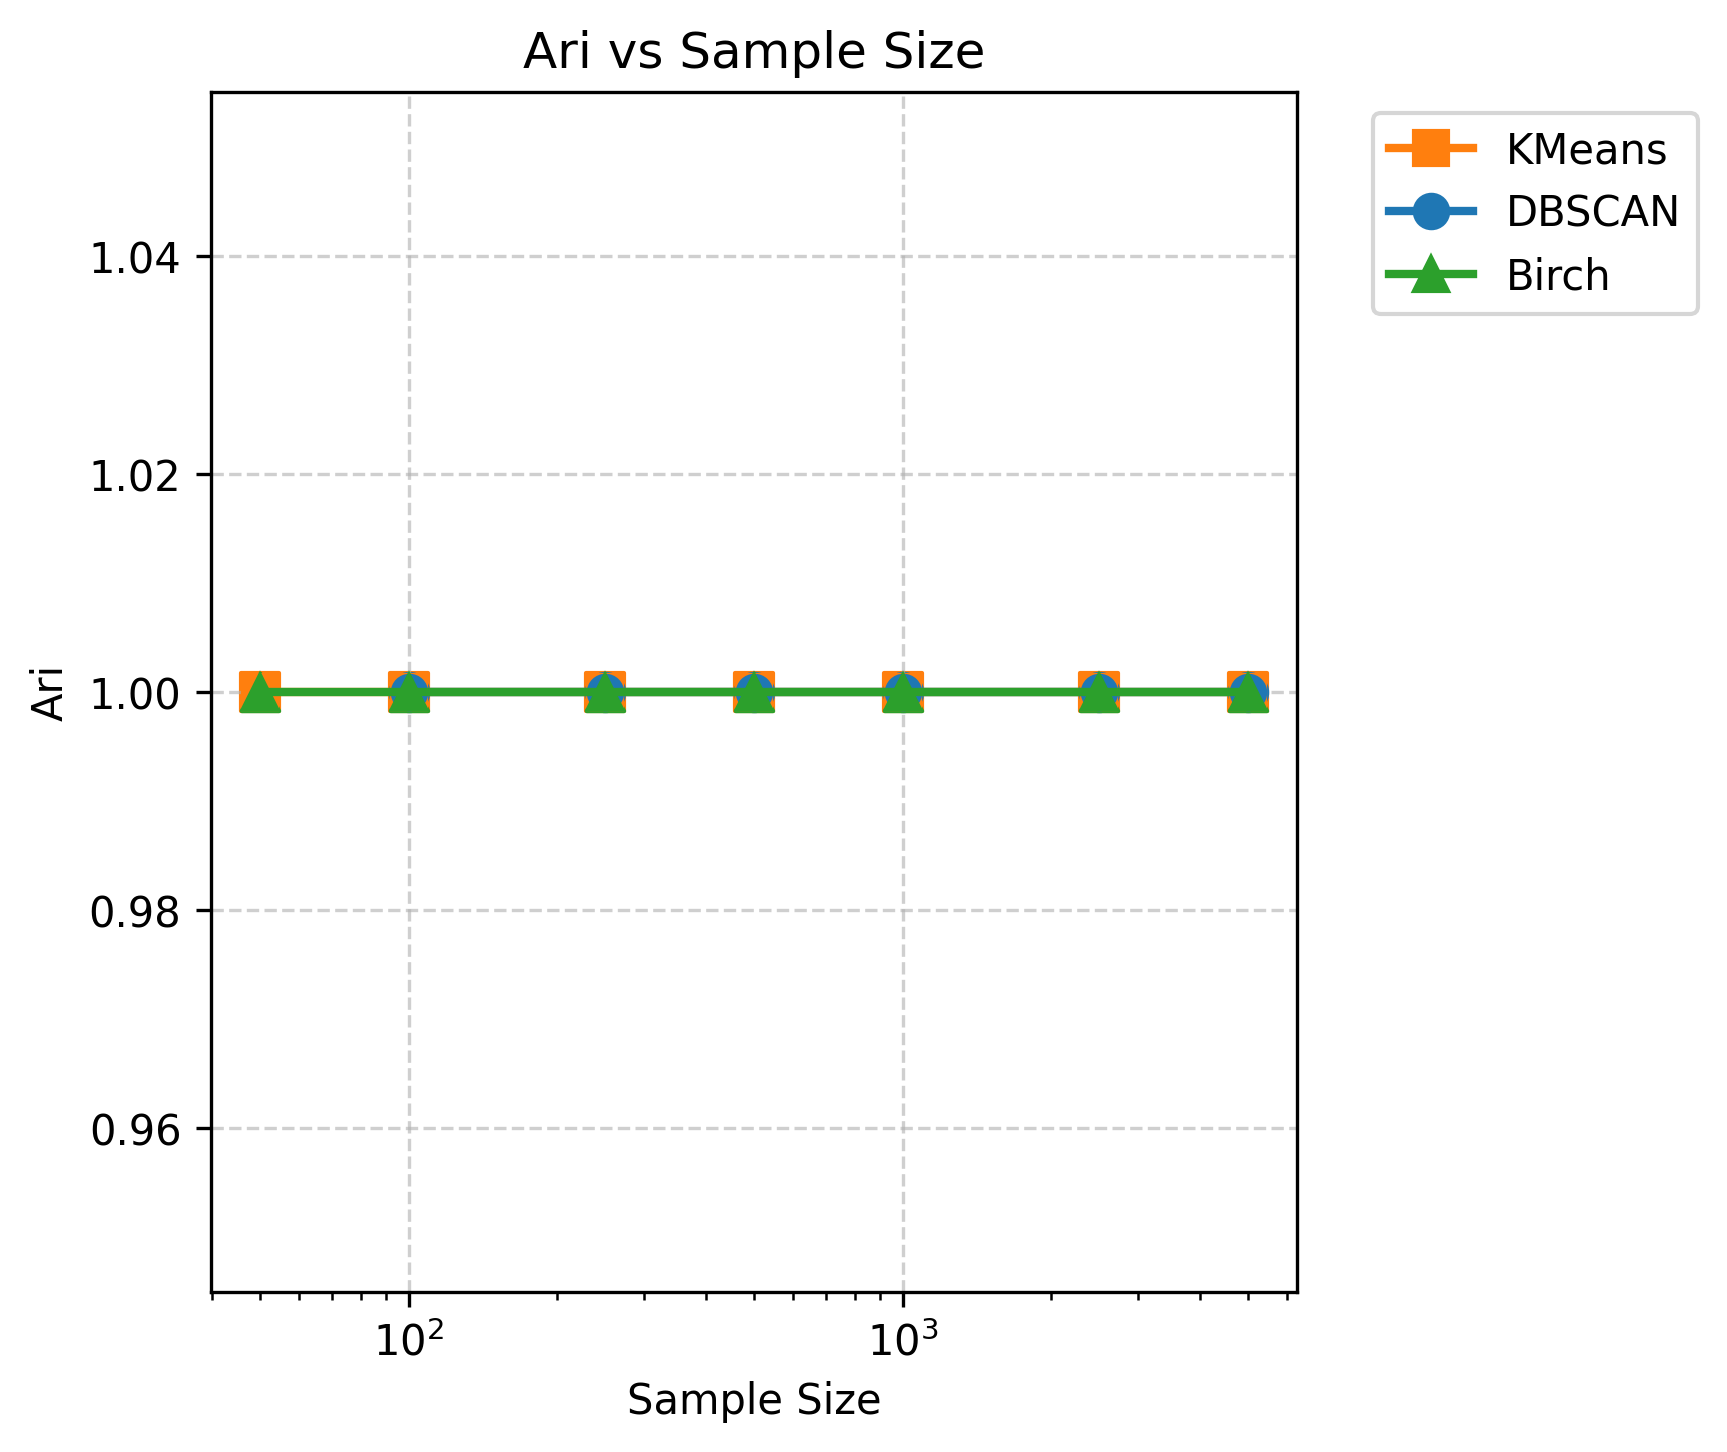
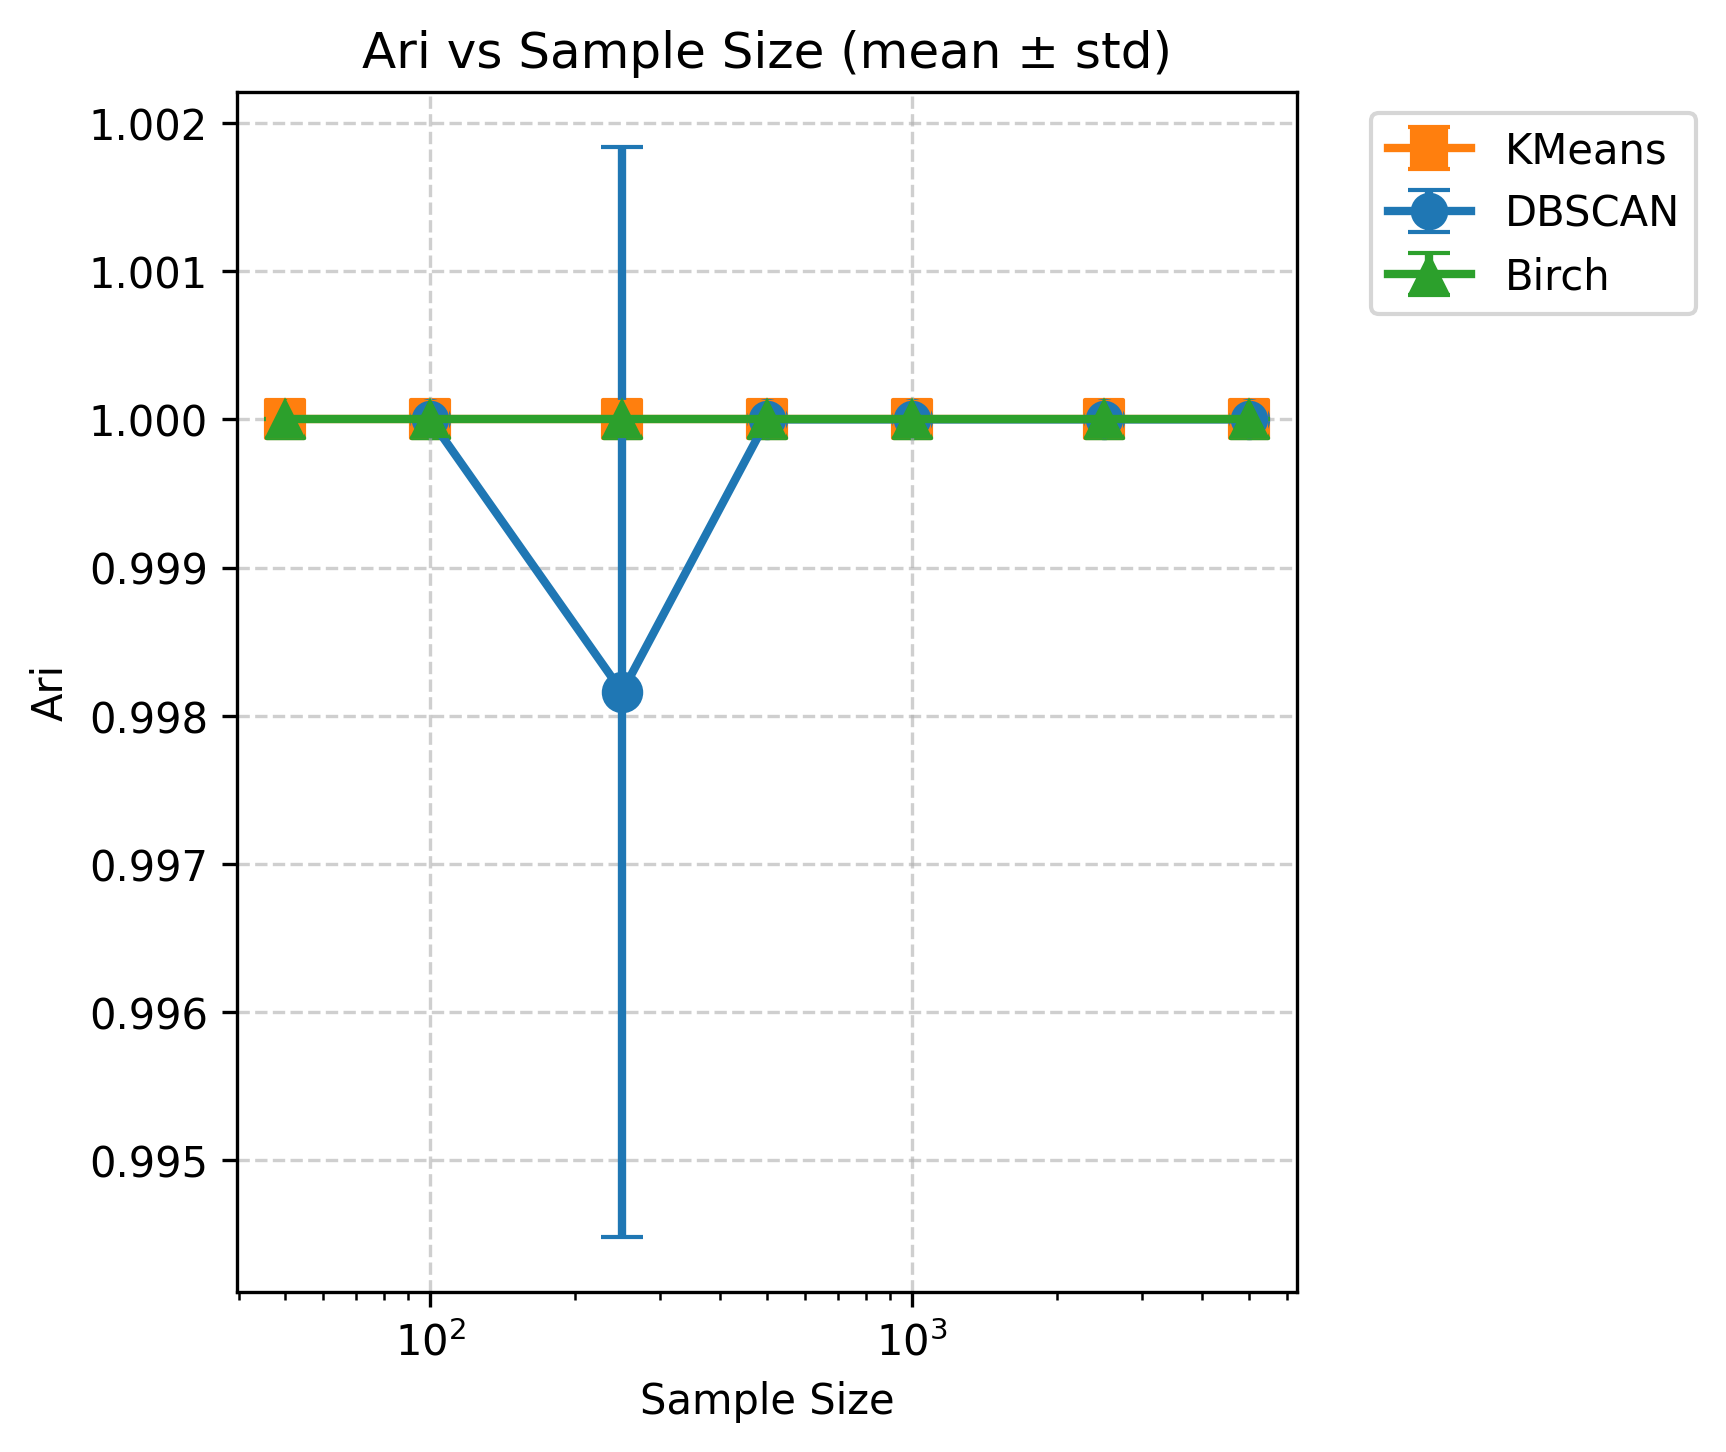
Part 2 done

diff --git a/part_two_B.py b/part_two_B.py
@@ -11,52 +11,63 @@ n_features = 10
 n_samples = 3000
 imbalance_ratios = [1, 2, 3, 4, 5, 6, 7, 8, 9]  # Ratio of largest to smallest cluster
 
-# --- Storage for results ---
-results = {alg: {'ari': [], 'silhouette': [], 'n_clusters': []} for alg in ['KMeans', 'DBSCAN', 'Birch']}
+n_runs = 5  # Number of runs for error estimation
 
-for ratio in imbalance_ratios:
-    # --- Generate imbalanced cluster sizes ---
-    # Smallest cluster size
-    min_size = n_samples // (sum(ratio**i for i in range(n_clusters)))
-    sizes = [min_size * (ratio**i) for i in range(n_clusters)]
-    sizes[-1] += n_samples - sum(sizes)  # Adjust last cluster to match total
+# --- Storage for results (lists of lists for each ratio) ---
+results = {
+    alg: {
+        'ari': [[] for _ in imbalance_ratios],
+        'silhouette': [[] for _ in imbalance_ratios],
+        'n_clusters': [[] for _ in imbalance_ratios]
+    }
+    for alg in ['KMeans', 'DBSCAN', 'Birch']
+}
 
-    centers = np.random.uniform(-20, 20, size=(n_clusters, n_features))
-    X, y_true = make_blobs(
-        n_samples=sizes,
-        centers=centers,
-        n_features=n_features,
-        cluster_std=1.0,
-        random_state=42
-    )
+for run in range(n_runs):
+    for i, ratio in enumerate(imbalance_ratios):
+        # --- Generate imbalanced cluster sizes ---
+        min_size = n_samples // (sum(ratio**j for j in range(n_clusters)))
+        sizes = [min_size * (ratio**j) for j in range(n_clusters)]
+        sizes[-1] += n_samples - sum(sizes)  # Adjust last cluster to match total
 
-    # --- KMeans ---
-    kmeans = KMeans(n_clusters=n_clusters, random_state=42)
-    y_kmeans = kmeans.fit_predict(X)
-    results['KMeans']['ari'].append(adjusted_rand_score(y_true, y_kmeans))
-    results['KMeans']['silhouette'].append(silhouette_score(X, y_kmeans))
-    results['KMeans']['n_clusters'].append(len(np.unique(y_kmeans)))
+        centers = np.random.uniform(-20, 20, size=(n_clusters, n_features))
+        X, y_true = make_blobs(
+            n_samples=sizes,
+            centers=centers,
+            n_features=n_features,
+            cluster_std=1.0,
+            random_state=None  # Use different random state each run
+        )
 
-    # --- DBSCAN ---
-    dbscan = DBSCAN(eps=1.8, min_samples=5)  # You may need to tune eps
-    y_dbscan = dbscan.fit_predict(X)
-    mask = y_dbscan != -1
-    if np.unique(y_dbscan[mask]).size > 1:
-        sil = silhouette_score(X[mask], y_dbscan[mask])
-    else:
-        sil = np.nan
-    results['DBSCAN']['ari'].append(adjusted_rand_score(y_true[mask], y_dbscan[mask]) if mask.any() else np.nan)
-    results['DBSCAN']['silhouette'].append(sil)
-    results['DBSCAN']['n_clusters'].append(len(set(y_dbscan)) - (1 if -1 in y_dbscan else 0))
+        # --- KMeans ---
+        kmeans = KMeans(n_clusters=n_clusters, random_state=None)
+        y_kmeans = kmeans.fit_predict(X)
+        results['KMeans']['ari'][i].append(adjusted_rand_score(y_true, y_kmeans))
+        results['KMeans']['silhouette'][i].append(silhouette_score(X, y_kmeans))
+        results['KMeans']['n_clusters'][i].append(len(np.unique(y_kmeans)))
 
-    # --- Birch ---
-    birch = Birch(n_clusters=n_clusters)
-    y_birch = birch.fit_predict(X)
-    results['Birch']['ari'].append(adjusted_rand_score(y_true, y_birch))
-    results['Birch']['silhouette'].append(silhouette_score(X, y_birch))
-    results['Birch']['n_clusters'].append(len(np.unique(y_birch)))
+        # --- DBSCAN ---
+        dbscan = DBSCAN(eps=1.8, min_samples=5)
+        y_dbscan = dbscan.fit_predict(X)
+        mask = y_dbscan != -1
+        if np.unique(y_dbscan[mask]).size > 1:
+            sil = silhouette_score(X[mask], y_dbscan[mask])
+            ari = adjusted_rand_score(y_true[mask], y_dbscan[mask])
+        else:
+            sil = np.nan
+            ari = np.nan
+        results['DBSCAN']['ari'][i].append(ari)
+        results['DBSCAN']['silhouette'][i].append(sil)
+        results['DBSCAN']['n_clusters'][i].append(len(set(y_dbscan)) - (1 if -1 in y_dbscan else 0))
 
-# --- Plotting (separate high-quality images for each metric) ---
+        # --- Birch ---
+        birch = Birch(n_clusters=n_clusters)
+        y_birch = birch.fit_predict(X)
+        results['Birch']['ari'][i].append(adjusted_rand_score(y_true, y_birch))
+        results['Birch']['silhouette'][i].append(silhouette_score(X, y_birch))
+        results['Birch']['n_clusters'][i].append(len(np.unique(y_birch)))
+
+# --- Plotting (mean ± std error bars for each metric) ---
 colors = {'KMeans': 'tab:orange', 'DBSCAN': 'tab:blue', 'Birch': 'tab:green'}
 markers = {'KMeans': 's', 'DBSCAN': 'o', 'Birch': '^'}
 xlabels = [f"1:{r}" for r in imbalance_ratios]
@@ -67,15 +78,18 @@ os.makedirs("part_two", exist_ok=True)
 for metric in metrics:
     plt.figure(figsize=(7, 5))
     for alg in results:
-        y = np.array(results[alg][metric], dtype=np.float64)
-        plt.plot(
-            xlabels, y,
-            marker=markers[alg], color=colors[alg], label=alg, linewidth=2, markersize=8
+        vals = np.array(results[alg][metric], dtype=np.float64)  # shape: (len(imbalance_ratios), n_runs)
+        means = np.nanmean(vals, axis=1)
+        stds = np.nanstd(vals, axis=1)
+        plt.errorbar(
+            xlabels, means, yerr=stds,
+            marker=markers[alg], color=colors[alg], label=alg,
+            linewidth=2, markersize=8, capsize=5
         )
-        plt.scatter(xlabels, y, color=colors[alg], marker=markers[alg], s=80)
+        plt.scatter(xlabels, means, color=colors[alg], marker=markers[alg], s=80)
     plt.xlabel('Cluster Size Ratio (smallest:largest)')
     plt.ylabel(metric.replace('_', ' ').title())
-    plt.title(f"{metric.replace('_', ' ').title()} vs Cluster Size Imbalance")
+    plt.title(f"{metric.replace('_', ' ').title()} vs Cluster Size Imbalance (mean ± std)")
     plt.grid(True, linestyle='--', alpha=0.6)
     if metric == 'ari':
         plt.legend(bbox_to_anchor=(1.05, 1), loc='upper left', borderaxespad=0.)

diff --git a/part_two_A.py b/part_two_A.py
@@ -15,6 +15,7 @@ n_clusters = 10
 n_features = 50  # High dimensional like MNIST
 n_samples_full = 5000
 sample_sizes = [5000, 2500, 1000, 500, 250, 100, 50]
+n_runs = 5  # Number of runs for error estimation
 
 # --- Generate synthetic MNIST-like data ---
 X_full, y_true_full = make_blobs(
@@ -39,48 +40,56 @@ plt.tight_layout()
 plt.savefig("part_two/MNIST.png", bbox_inches="tight")
 plt.show()
 
-# --- Storage for clustering results ---
-results = {alg: {'ari': [], 'silhouette': [], 'n_clusters': []} for alg in ['KMeans', 'DBSCAN', 'Birch']}
+# --- Storage for clustering results (now stores lists of lists) ---
+results = {
+    alg: {
+        'ari': [[] for _ in sample_sizes],
+        'silhouette': [[] for _ in sample_sizes],
+        'n_clusters': [[] for _ in sample_sizes]
+    }
+    for alg in ['KMeans', 'DBSCAN', 'Birch']
+}
 
-# --- Loop over different sample sizes ---
-for size in sample_sizes:
-    # Balanced sampling: equal from each cluster
-    idx = []
-    for c in range(n_clusters):
-        c_idx = np.where(y_true_full == c)[0]
-        idx.extend(np.random.choice(c_idx, size // n_clusters, replace=False))
-    X = X_full[idx]
-    y_true = y_true_full[idx]
+# --- Loop over different sample sizes and runs ---
+for run in range(n_runs):
+    for i, size in enumerate(sample_sizes):
+        # Balanced sampling: equal from each cluster
+        idx = []
+        for c in range(n_clusters):
+            c_idx = np.where(y_true_full == c)[0]
+            idx.extend(np.random.choice(c_idx, size // n_clusters, replace=False))
+        X = X_full[idx]
+        y_true = y_true_full[idx]
 
-    # --- KMeans ---
-    kmeans = KMeans(n_clusters=n_clusters, random_state=42)
-    y_kmeans = kmeans.fit_predict(X)
-    results['KMeans']['ari'].append(adjusted_rand_score(y_true, y_kmeans))
-    results['KMeans']['silhouette'].append(silhouette_score(X, y_kmeans))
-    results['KMeans']['n_clusters'].append(len(np.unique(y_kmeans)))
+        # --- KMeans ---
+        kmeans = KMeans(n_clusters=n_clusters, random_state=None)
+        y_kmeans = kmeans.fit_predict(X)
+        results['KMeans']['ari'][i].append(adjusted_rand_score(y_true, y_kmeans))
+        results['KMeans']['silhouette'][i].append(silhouette_score(X, y_kmeans))
+        results['KMeans']['n_clusters'][i].append(len(np.unique(y_kmeans)))
 
-    # --- DBSCAN ---
-    dbscan = DBSCAN(eps=4.5, min_samples=5)  # eps may need tuning
-    y_dbscan = dbscan.fit_predict(X)
-    mask = y_dbscan != -1
-    if np.unique(y_dbscan[mask]).size > 1:
-        sil = silhouette_score(X[mask], y_dbscan[mask])
-        ari = adjusted_rand_score(y_true[mask], y_dbscan[mask])
-    else:
-        sil = np.nan
-        ari = np.nan
-    results['DBSCAN']['ari'].append(ari)
-    results['DBSCAN']['silhouette'].append(sil)
-    results['DBSCAN']['n_clusters'].append(len(set(y_dbscan)) - (1 if -1 in y_dbscan else 0))
+        # --- DBSCAN ---
+        dbscan = DBSCAN(eps=4.5, min_samples=5)
+        y_dbscan = dbscan.fit_predict(X)
+        mask = y_dbscan != -1
+        if np.unique(y_dbscan[mask]).size > 1:
+            sil = silhouette_score(X[mask], y_dbscan[mask])
+            ari = adjusted_rand_score(y_true[mask], y_dbscan[mask])
+        else:
+            sil = np.nan
+            ari = np.nan
+        results['DBSCAN']['ari'][i].append(ari)
+        results['DBSCAN']['silhouette'][i].append(sil)
+        results['DBSCAN']['n_clusters'][i].append(len(set(y_dbscan)) - (1 if -1 in y_dbscan else 0))
 
-    # --- Birch ---
-    birch = Birch(n_clusters=n_clusters)
-    y_birch = birch.fit_predict(X)
-    results['Birch']['ari'].append(adjusted_rand_score(y_true, y_birch))
-    results['Birch']['silhouette'].append(silhouette_score(X, y_birch))
-    results['Birch']['n_clusters'].append(len(np.unique(y_birch)))
+        # --- Birch ---
+        birch = Birch(n_clusters=n_clusters)
+        y_birch = birch.fit_predict(X)
+        results['Birch']['ari'][i].append(adjusted_rand_score(y_true, y_birch))
+        results['Birch']['silhouette'][i].append(silhouette_score(X, y_birch))
+        results['Birch']['n_clusters'][i].append(len(np.unique(y_birch)))
 
-# --- Plot clustering results across sample sizes (separate images, high quality) ---
+# --- Plot clustering results with error bars ---
 colors = {'KMeans': 'tab:orange', 'DBSCAN': 'tab:blue', 'Birch': 'tab:green'}
 markers = {'KMeans': 's', 'DBSCAN': 'o', 'Birch': '^'}
 metrics = ['ari', 'silhouette', 'n_clusters']
@@ -88,15 +97,18 @@ metrics = ['ari', 'silhouette', 'n_clusters']
 for metric in metrics:
     plt.figure(figsize=(7, 5))
     for alg in results:
-        y = results[alg][metric]
-        plt.plot(
-            sample_sizes, y,
-            marker=markers[alg], color=colors[alg], label=alg, linewidth=2, markersize=8
+        vals = np.array(results[alg][metric], dtype=np.float64)  # shape: (len(sample_sizes), n_runs)
+        means = np.nanmean(vals, axis=1)
+        stds = np.nanstd(vals, axis=1)
+        plt.errorbar(
+            sample_sizes, means, yerr=stds,
+            marker=markers[alg], color=colors[alg], label=alg,
+            linewidth=2, markersize=8, capsize=5
         )
-        plt.scatter(sample_sizes, y, color=colors[alg], marker=markers[alg], s=80)
+        plt.scatter(sample_sizes, means, color=colors[alg], marker=markers[alg], s=80)
     plt.xlabel('Sample Size')
     plt.ylabel(metric.replace('_', ' ').title())
-    plt.title(f"{metric.replace('_', ' ').title()} vs Sample Size")
+    plt.title(f"{metric.replace('_', ' ').title()} vs Sample Size (mean ± std)")
     plt.xscale('log')
     plt.grid(True, linestyle='--', alpha=0.6)
     if metric == 'ari':
